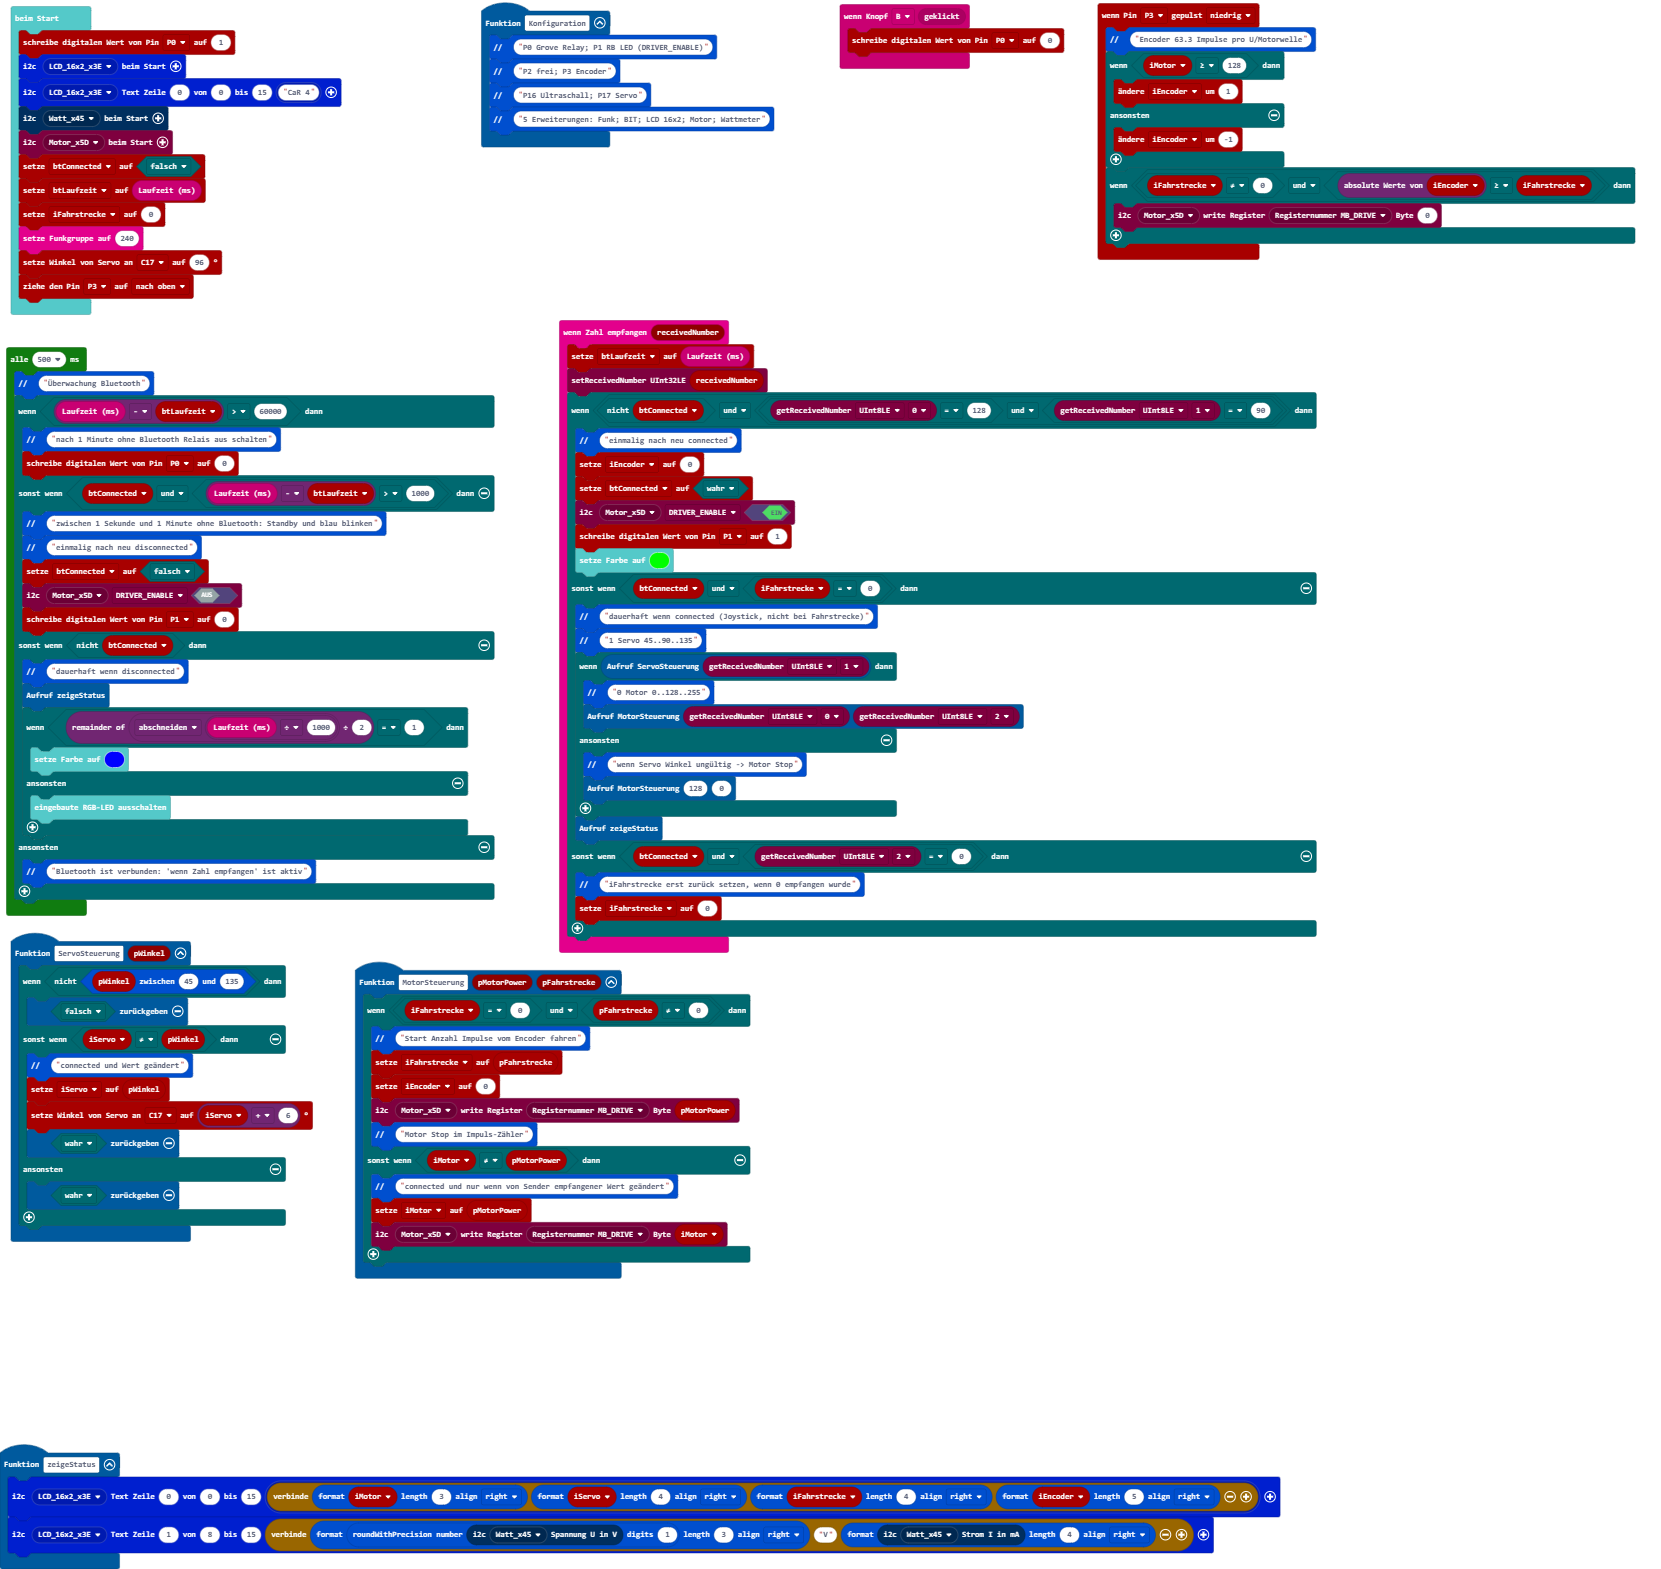
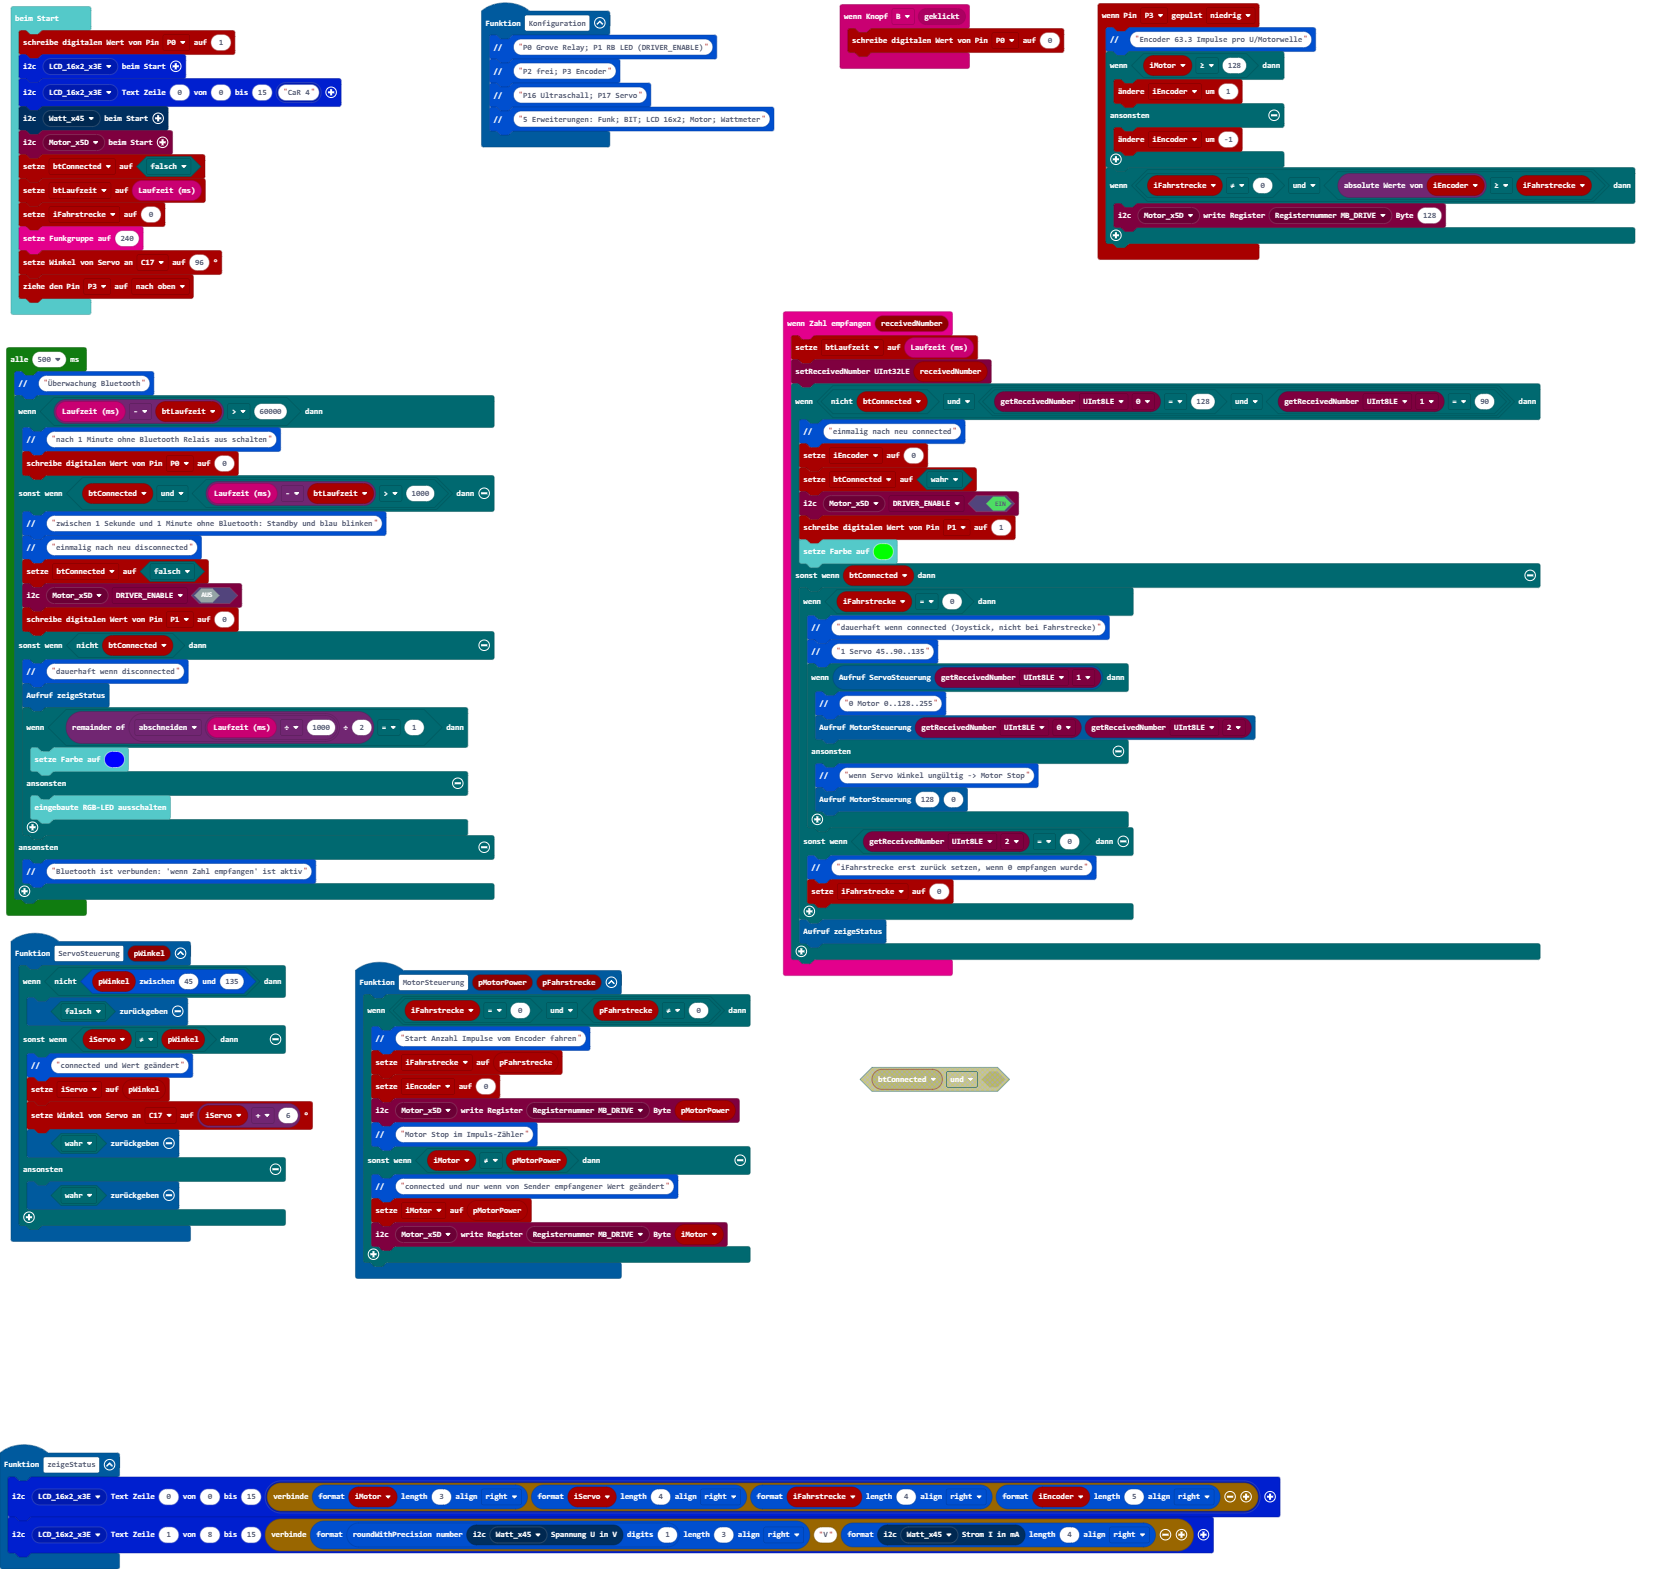
Aktualisiere main.blocks, main.ts

Changed region(s): [[0.3377, 0.1874, 0.9518, 0.6246], [0.522, 0.6558, 0.6141, 0.7183]]

diff --git a/main.ts b/main.ts
@@ -8,20 +8,22 @@ radio.onReceivedNumber(function (receivedNumber) {
         qwiicmotor.controlRegister(qwiicmotor.qwiicmotor_eADDR(qwiicmotor.eADDR.Motor_x5D), qwiicmotor.eControl.DRIVER_ENABLE, true)
         pins.digitalWritePin(DigitalPin.P1, 1)
         basic.setLedColor(0x00ff00)
-    } else if (btConnected && iFahrstrecke == 0) {
-        bit.comment("dauerhaft wenn connected (Joystick, nicht bei Fahrstrecke)")
-        bit.comment("1 Servo 45..90..135")
-        if (ServoSteuerung(qwiicmotor.getReceivedNumber(NumberFormat.UInt8LE, qwiicmotor.eOffset.z1))) {
-            bit.comment("0 Motor 0..128..255")
-            MotorSteuerung(qwiicmotor.getReceivedNumber(NumberFormat.UInt8LE, qwiicmotor.eOffset.z0), qwiicmotor.getReceivedNumber(NumberFormat.UInt8LE, qwiicmotor.eOffset.z2))
-        } else {
-            bit.comment("wenn Servo Winkel ungültig -> Motor Stop")
-            MotorSteuerung(128, 0)
+    } else if (btConnected) {
+        if (iFahrstrecke == 0) {
+            bit.comment("dauerhaft wenn connected (Joystick, nicht bei Fahrstrecke)")
+            bit.comment("1 Servo 45..90..135")
+            if (ServoSteuerung(qwiicmotor.getReceivedNumber(NumberFormat.UInt8LE, qwiicmotor.eOffset.z1))) {
+                bit.comment("0 Motor 0..128..255")
+                MotorSteuerung(qwiicmotor.getReceivedNumber(NumberFormat.UInt8LE, qwiicmotor.eOffset.z0), qwiicmotor.getReceivedNumber(NumberFormat.UInt8LE, qwiicmotor.eOffset.z2))
+            } else {
+                bit.comment("wenn Servo Winkel ungültig -> Motor Stop")
+                MotorSteuerung(128, 0)
+            }
+        } else if (qwiicmotor.getReceivedNumber(NumberFormat.UInt8LE, qwiicmotor.eOffset.z2) == 0) {
+            bit.comment("iFahrstrecke erst zurück setzen, wenn 0 empfangen wurde")
+            iFahrstrecke = 0
         }
         zeigeStatus()
-    } else if (btConnected && qwiicmotor.getReceivedNumber(NumberFormat.UInt8LE, qwiicmotor.eOffset.z2) == 0) {
-        bit.comment("iFahrstrecke erst zurück setzen, wenn 0 empfangen wurde")
-        iFahrstrecke = 0
     }
 })
 function MotorSteuerung (pMotorPower: number, pFahrstrecke: number) {
@@ -45,7 +47,7 @@ pins.onPulsed(DigitalPin.P3, PulseValue.Low, function () {
         iEncoder += -1
     }
     if (iFahrstrecke != 0 && Math.abs(iEncoder) >= iFahrstrecke) {
-        qwiicmotor.writeRegister(qwiicmotor.qwiicmotor_eADDR(qwiicmotor.eADDR.Motor_x5D), qwiicmotor.qwiicmotor_eRegister(qwiicmotor.eRegister.MB_DRIVE), 0)
+        qwiicmotor.writeRegister(qwiicmotor.qwiicmotor_eADDR(qwiicmotor.eADDR.Motor_x5D), qwiicmotor.qwiicmotor_eRegister(qwiicmotor.eRegister.MB_DRIVE), 128)
     }
 })
 function zeigeStatus () {
